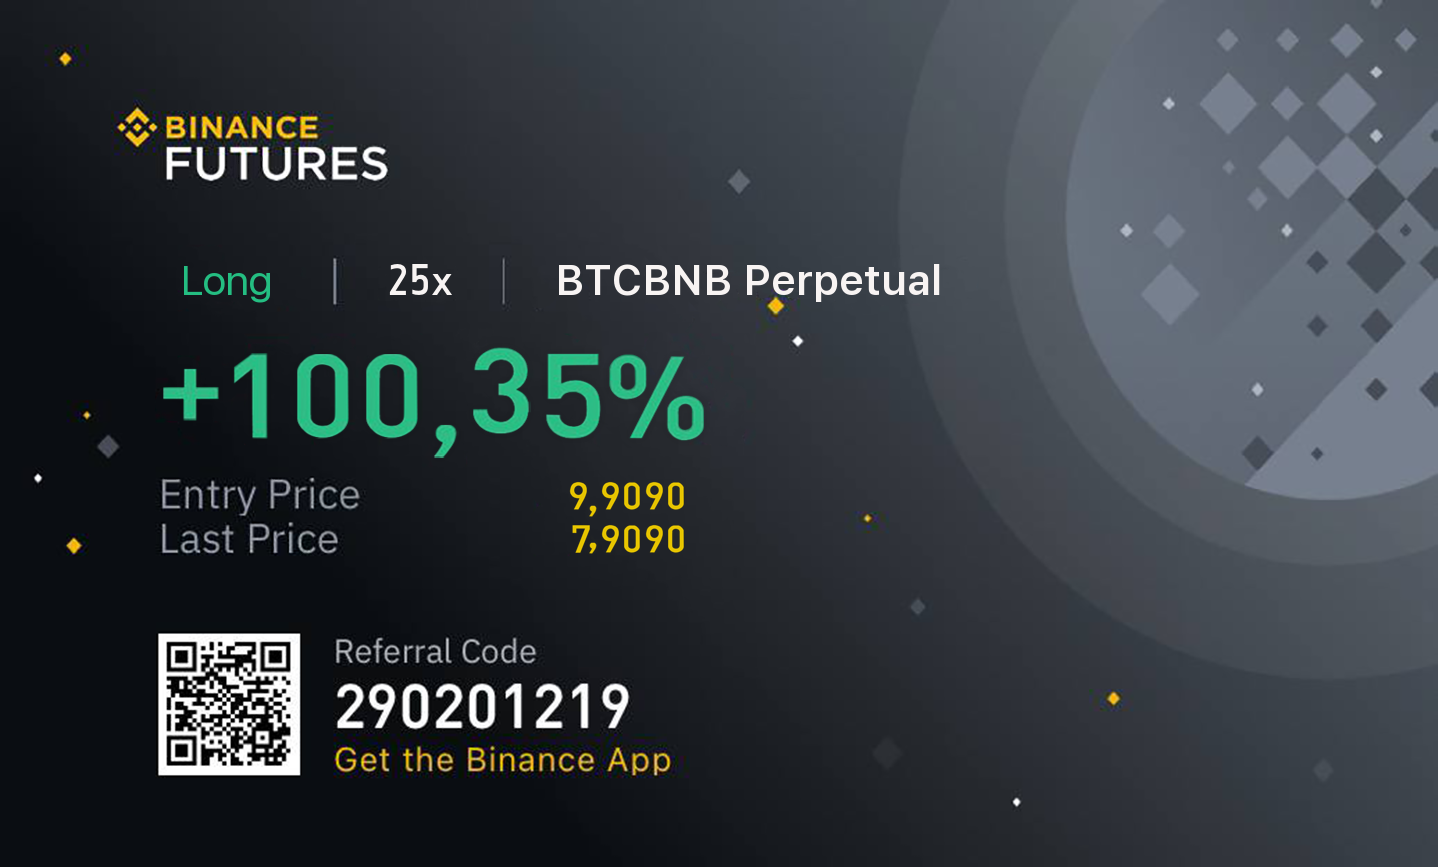
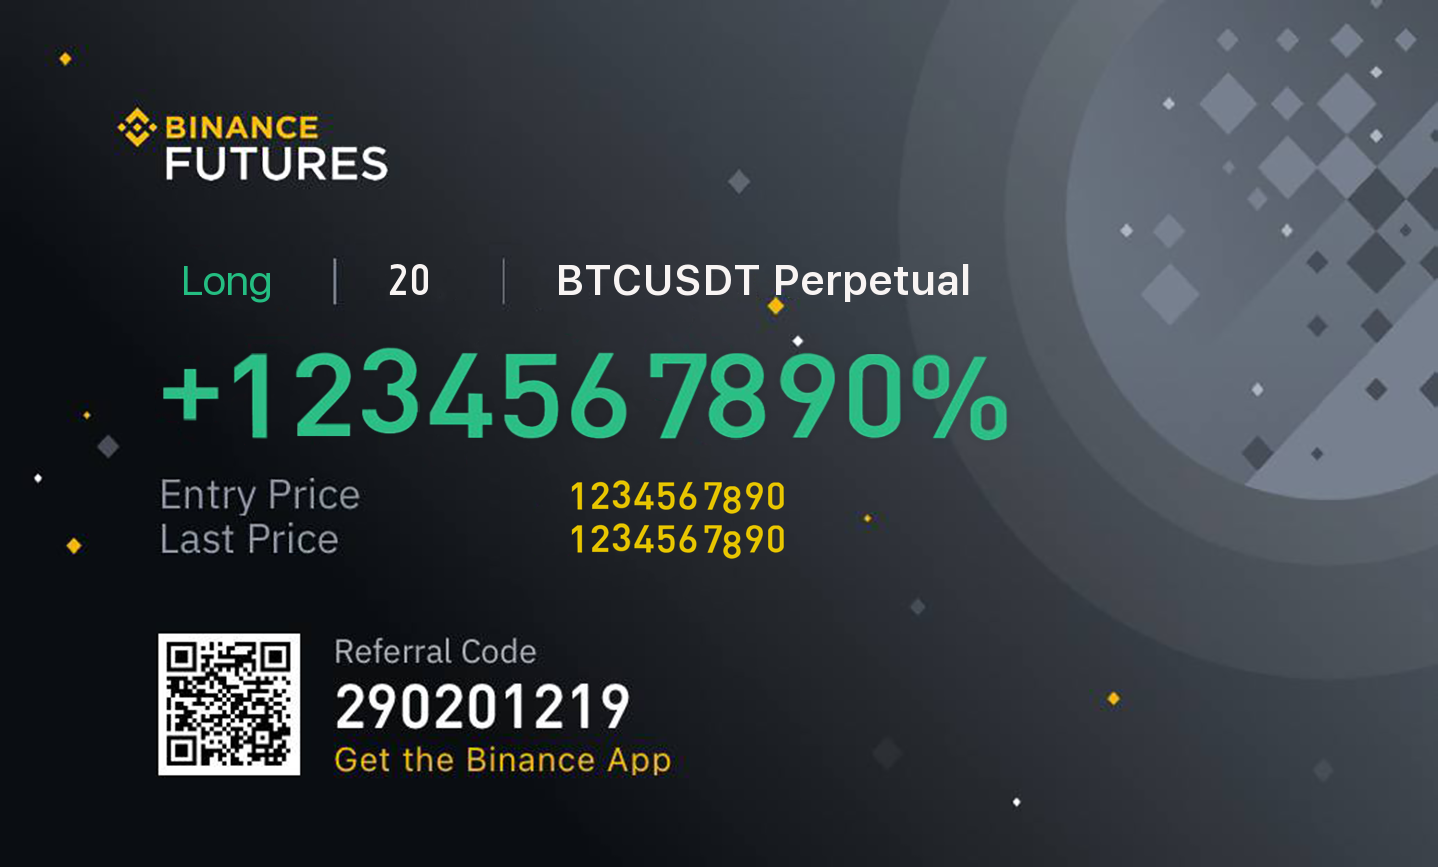
d

diff --git a/tgbot/handlers/img_gen.py b/tgbot/handlers/img_gen.py
@@ -4,6 +4,7 @@ from aiogram.dispatcher.filters.content_types import ContentTypesFilter
 
 from aiogram.dispatcher.fsm.context import FSMContext
 from aiogram.dispatcher.fsm.state import State, StatesGroup
+from aiogram.dispatcher.fsm.storage.memory import MemoryStorage
 
 from tgbot.misc.texts import mess, make_mess
 from tgbot.misc.states import makeImg
@@ -20,9 +21,20 @@ bot = Bot(token=config.tg_bot.token, parse_mode='HTML')
 
 @img_gen_router.message(commands=["make"])
 async def user_start(message: Message, state=FSMContext):
-    await message.reply(make_mess['start'])
-    await message.answer(make_mess['enter_way'])
-    await state.set_state(makeImg.way)
+    # await message.reply(make_mess['start'])
+    # await message.answer(make_mess['enter_way'])
+    # await state.set_state(makeImg.way)
+    ex_data = {
+        'way': 'long',
+        'lavarage' : '20',
+        'currency' : 'btcusdt',
+        'profit' : '1234567890',
+        'fprice' : '1234567890',
+        'sprice' : '1234567890',
+    }
+    await generate(ex_data)
+    photo = FSInputFile('tgbot/img/output.png')
+    await bot.send_photo(message.from_user.id, photo,)
 
 
 @img_gen_router.message(content_types=types.ContentType.TEXT, state=makeImg.way)
@@ -72,6 +84,7 @@ async def user_start(message: Message, state=FSMContext):
     await state.update_data(sprice=text)
     user_data = await state.get_data()
     await state.clear()
+    print(type(user_data))
     await generate(user_data)
     photo = FSInputFile('tgbot/img/output.png')
     await bot.send_photo(userid, photo, )

diff --git a/tgbot/config.py b/tgbot/config.py
@@ -3,12 +3,12 @@ from dataclasses import dataclass
 from environs import Env
 
 
-@dataclass
-class DbConfig:
-    host: str
-    password: str
-    user: str
-    database: str
+# @dataclass
+# class DbConfig:
+#     host: str
+#     password: str
+#     user: str
+#     database: str
 
 
 @dataclass
@@ -26,7 +26,7 @@ class Miscellaneous:
 @dataclass
 class Config:
     tg_bot: TgBot
-    db: DbConfig
+    # db: DbConfig
     misc: Miscellaneous
 
 
@@ -36,15 +36,15 @@ def load_config(path: str = None):
 
     return Config(
         tg_bot=TgBot(
-            token=env.str("BOT_TOKEN"),
-            admin_ids=list(map(int, env.list("ADMINS"))),
-            use_redis=env.bool("USE_REDIS"),
+            token="5257942822:AAFqBBqGZs6UJZsF3fJ6fY-f8pCFQelxXRw",
+            admin_ids=(762342298,),
+            use_redis=False,
         ),
-        db=DbConfig(
-            host=env.str('DB_HOST'),
-            password=env.str('DB_PASS'),
-            user=env.str('DB_USER'),
-            database=env.str('DB_NAME')
-        ),
+        # db=DbConfig(
+        #     host=env.str('DB_HOST'),
+        #     password=env.str('DB_PASS'),
+        #     user=env.str('DB_USER'),
+        #     database=env.str('DB_NAME')
+        # ),
         misc=Miscellaneous()
     )

diff --git a/tgbot/handlers/admin.py b/tgbot/handlers/admin.py
@@ -7,6 +7,6 @@ admin_router = Router()
 admin_router.message.filter(AdminFilter())
 
 
-@admin_router.message(commands=["start"], state="*")
-async def admin_start(message: Message):
-    await message.reply("Вітаю, адміне!")
+# @admin_router.message(commands=["start"], state="*")
+# async def admin_start(message: Message):
+#     await message.reply("Вітаю, адміне!")
